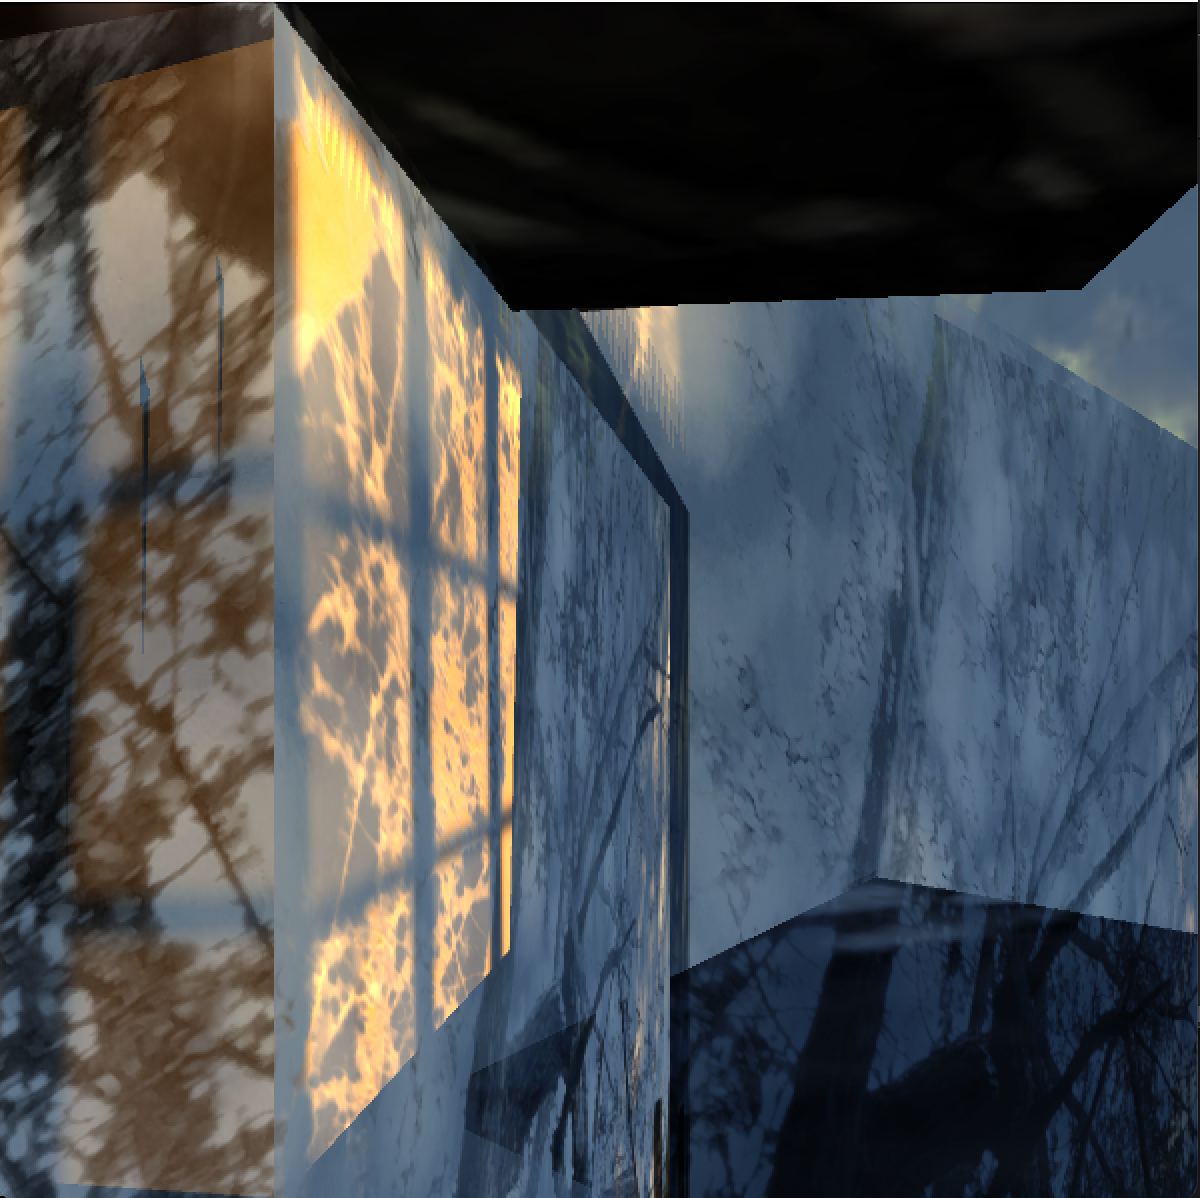
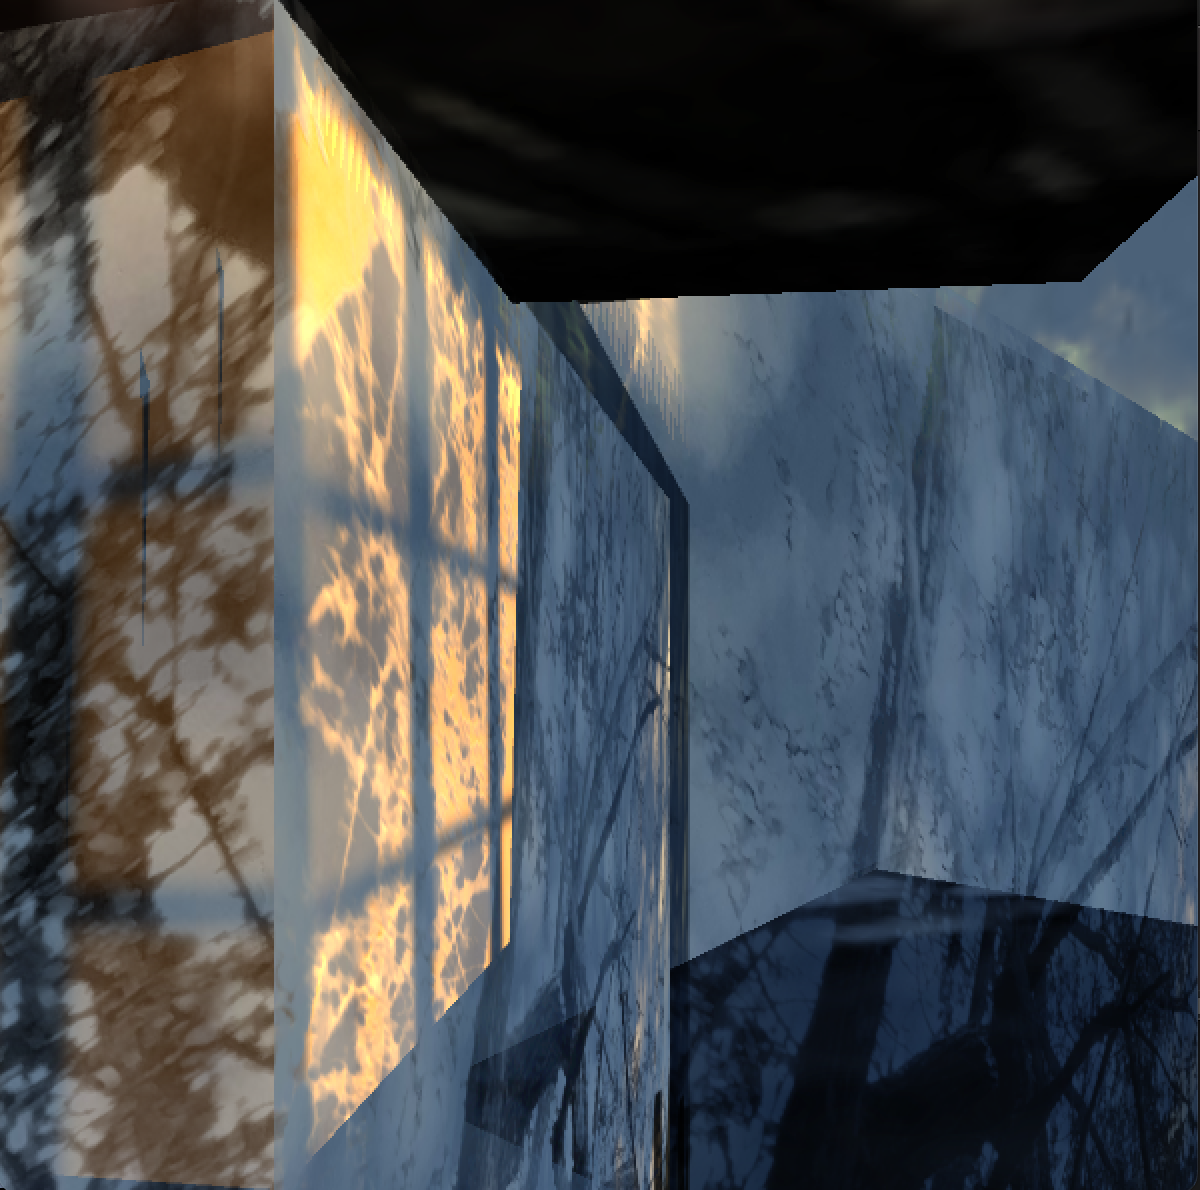
images

diff --git a/installation-art/README.md b/installation-art/README.md
@@ -67,6 +67,6 @@ Notes on interactivity:
 - Jostling the box, picking it up, holding the box on or near the side of the touch sensor, and generally causing any vibration to the structure will cause the moving light to disappear.
 
 <p align="center">
-<img src="https://github.com/risxyang/CPSC-334/blob/main/installation-art/images/img4.png" alt="cube and stand enclosure on a table as visuals are projected onto them and the wall behind them">
+<img src="https://github.com/risxyang/CPSC-334/blob/main/installation-art/images/img4.jpg" alt="cube and stand enclosure on a table as visuals are projected onto them and the wall behind them">
 </p>
 
